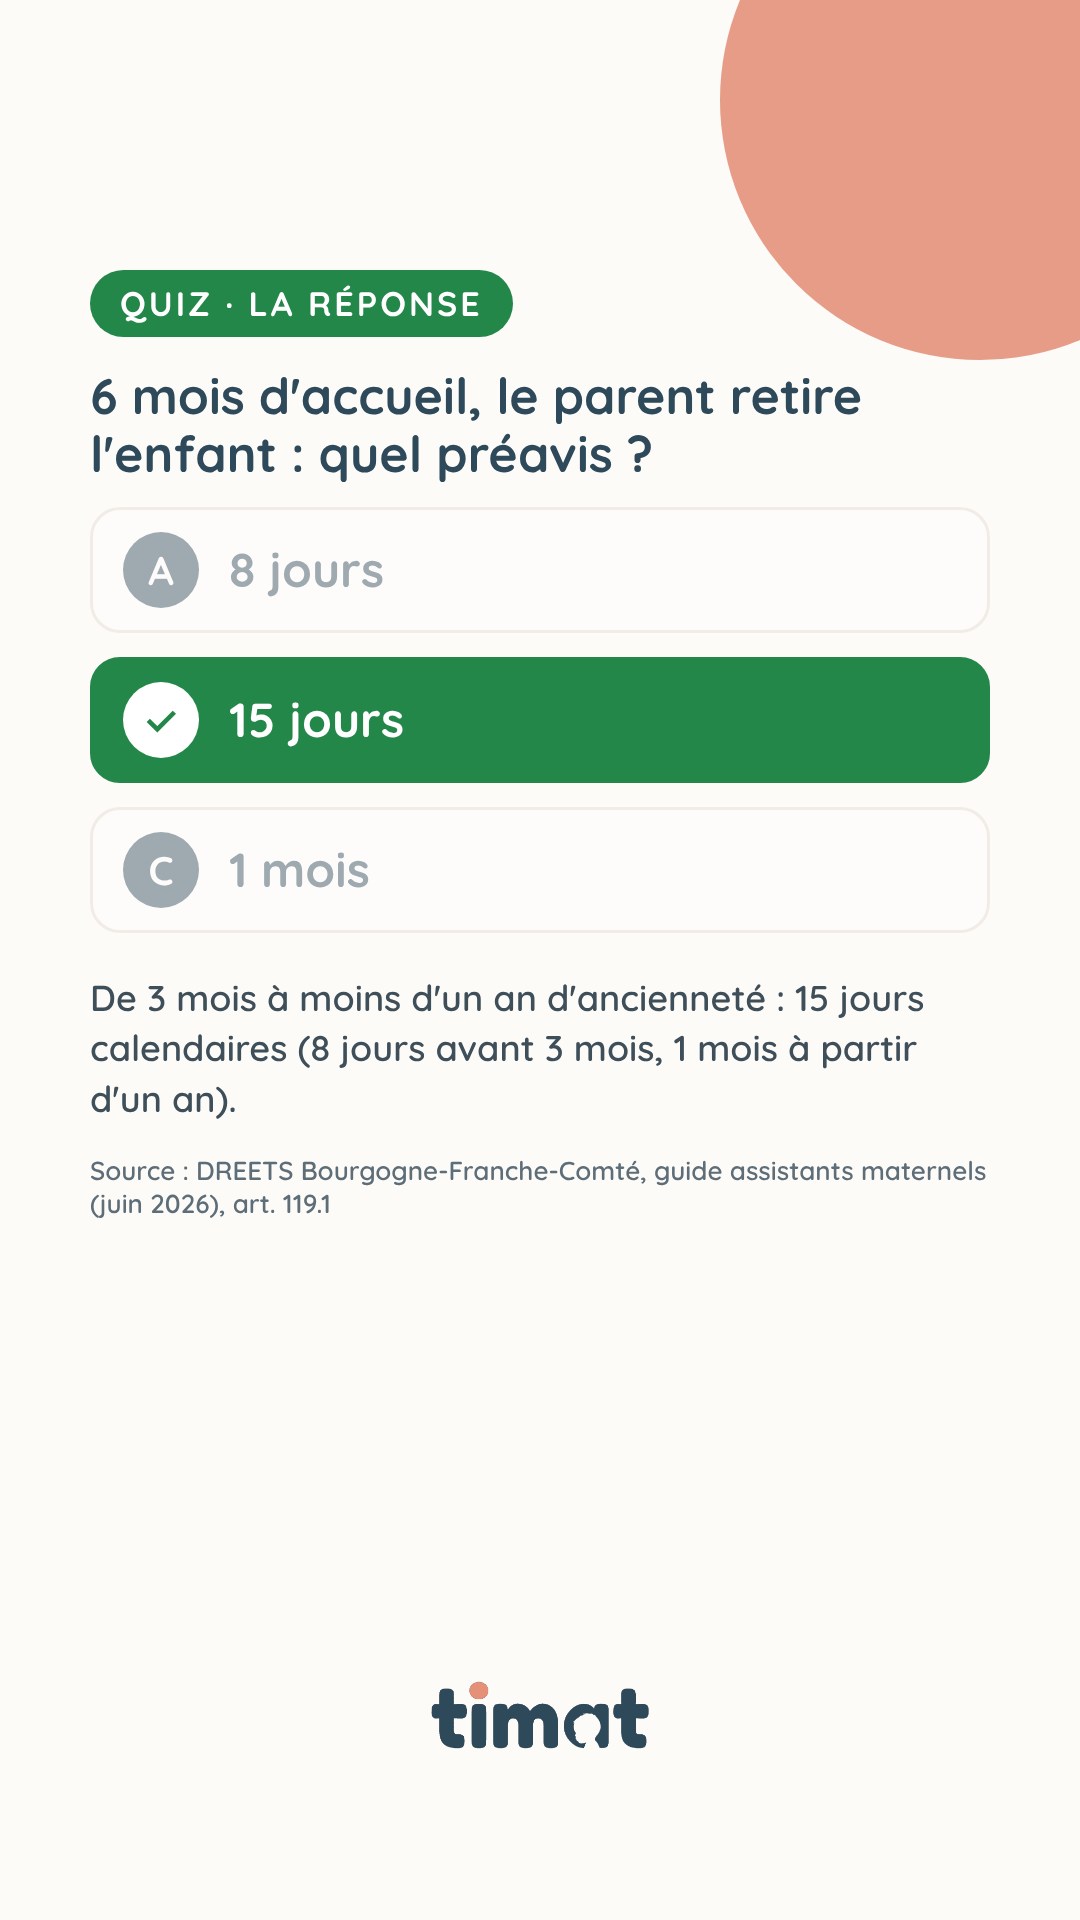
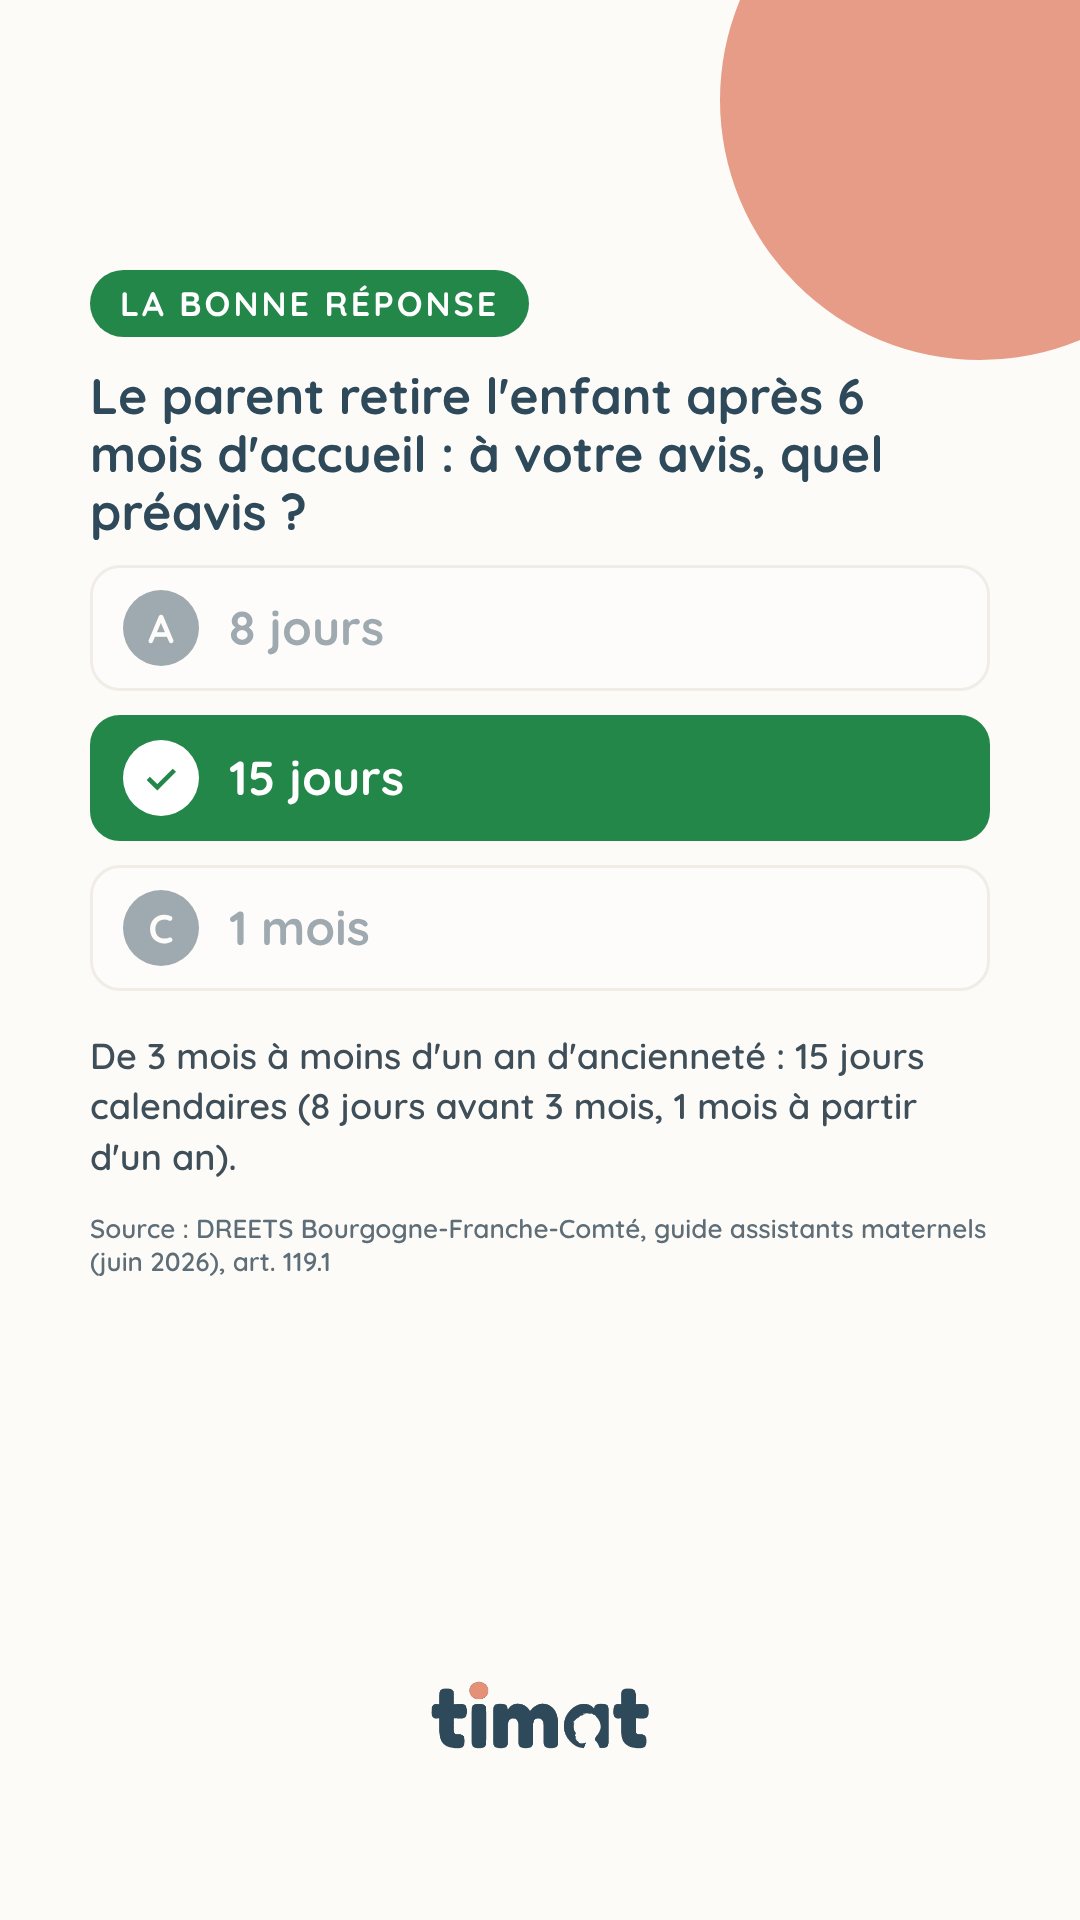
Sondages à bonne réponse et calendrier des stories repris le 30/10 (#297)
Sophie le 30/10 : « ne pas appeler ça un quiz, mais plutôt un sondage », et
poser la question autrement. Les images 27, 29, 40 et 42 portent désormais
« SONDAGE » et une question en « À votre avis… » ; les images 55 à 58,
« LA BONNE RÉPONSE ». En voyage les 28 et 29/10, elle n'a pas pu publier le
sondage du salaire minimum ni la story du 11 novembre : le calendrier du kit
les replace (31/10 et 1/11) au lieu de lui en faire faire deux le même jour,
jusqu'au 8/11. Un sondage ne se programme pas dans Meta Business Suite
(plusieurs guides, rien d'officiel) : ces stories se font à la main.

Passation : correction du titre publiée sur son accord, indexations des 28
et 29/10, nouveau calendrier.

Claude-Session: https://claude.ai/code/session_01JVfHnHqQqeEKwpYvot8sHP

Changed region(s): [[0.0611, 0.125, 0.9167, 0.6875]]

diff --git a/docs/reseaux-sociaux/kit-reseaux.html b/docs/reseaux-sociaux/kit-reseaux.html
@@ -537,11 +537,11 @@ Jamais</pre></div>
 
     <h3>Une story par jour, du 24 au 30 octobre</h3>
     <p>Mêmes gestes que ST1 et ST2 : l'image depuis vos photos, puis l'autocollant indiqué, posé dans l'espace vide. Les jours de publication programmée (26, 28 et 30 octobre à 20 h 30), la story est la publication elle-même : soit l'image de story faite exprès (43 et suivantes), programmée dans Meta Business Suite à 20 h 35, soit, sous la publication, l'avion en papier → <b>Ajouter à votre story</b>.</p>
-    <p class="note"><b>Le quiz sur le compte de Sophie</b>. Elle voulait le vrai quiz d'Instagram (réponse verte ou rouge tout de suite) : l'autocollant <b>Quiz</b> manque sur son compte, et l'astuce du Reel en brouillon n'a rien changé (28/10). On fait donc : l'image quiz (27, 29, 40, 42) avec l'autocollant <b>Sondage</b> et les réponses du tableau, puis <b>tout de suite après</b>, au même moment, l'image réponse (55 à 58, bonne réponse en vert). La personne vote, touche à droite, et voit la réponse aussitôt. Jamais la réponse le soir.</p>
+    <p class="note"><b>Les sondages à bonne réponse</b> (règles de Sophie, 27 au 30/10). La réponse se voit sur le moment, jamais le soir ; on dit « sondage », pas « quiz » ; la question se pose « À votre avis… ». L'autocollant Quiz manque sur son compte (astuce du Reel en brouillon essayée en vain le 28/10). Donc : l'image sondage (27, 29, 40, 42) avec l'autocollant <b>Sondage</b> et les réponses du tableau, puis <b>tout de suite après</b>, au même moment, l'image « La bonne réponse » (55 à 58). La personne vote, touche à droite, et voit la réponse en vert aussitôt.</p>
     <ol class="etapes">
-      <li><b>Story 1, le quiz</b> : « + » → <b>Story</b> → l'image quiz → icône des autocollants → <b>Sondage</b> → question « Votre réponse ? » → taper les réponses du tableau (« Ajouter une option » pour la troisième) → <b>OK</b> → placer l'autocollant sous « Votez juste en dessous » → <b>Votre story</b>.</li>
-      <li><b>Story 2, juste après</b> : « + » → <b>Story</b> → l'image réponse (55 à 58) → <b>Votre story</b>, sans autocollant.</li>
-      <li>Si un jour l'autocollant <b>Quiz</b> apparaît : le prendre à la place du Sondage, toucher la bonne réponse pour qu'elle devienne verte ; l'image réponse reste facultative.</li>
+      <li><b>Story 1, le sondage</b> : « + » → <b>Story</b> → l'image sondage → icône des autocollants → <b>Sondage</b> → question « À votre avis ? » → taper les réponses du tableau (« Ajouter une option » pour la troisième) → <b>OK</b> → placer l'autocollant sous « Votez juste en dessous » → <b>Votre story</b>.</li>
+      <li><b>Story 2, juste après</b> : « + » → <b>Story</b> → l'image « La bonne réponse » (55 à 58) → <b>Votre story</b>, sans autocollant.</li>
+      <li>Un sondage ne se programme pas dans Meta Business Suite (plusieurs guides le disent ; Meta ne publie rien là-dessus) ; pour l'autocollant Lien, les guides se contredisent. Ces stories se publient donc à la main dans Instagram ; seules les images sans autocollant (43 à 54) se programment.</li>
     </ol>
     <div class="grille">
       <figure><img src="visuels/25-story-boite-questions-1080x1920.png" alt="Fond : Une question sur votre contrat, votre salaire ou Pajemploi ? Posez-la ici"><figcaption>25 · questions</figcaption></figure>
@@ -564,33 +564,42 @@ Jamais</pre></div>
         <tr><td>Ven. 30/10</td><td>Image 29, puis juste après l'image 56 (réponse) ; l'image 23 avec le lien du groupe ; à 20 h 35, l'image 44 programmée</td><td><b>Sondage</b> : Une seule / Deux (bonne réponse : <b>Deux</b>, sur l'image 56) ; puis <b>Lien</b> vers le groupe</td><td>Pajemploi et Le groupe</td></tr>
       </tbody>
     </table></div>
-    <div class="colle"><div class="haut"><span class="nom">Lien du 29/10 (article jours fériés)</span><button class="copier" data-cible="st-feries">Copier</button></div>
+    <div class="colle"><div class="haut"><span class="nom">Lien de l'image 28 (article jours fériés), publiée le 31/10</span><button class="copier" data-cible="st-feries">Copier</button></div>
 <pre id="st-feries">https://www.timat.app/blog/jours-feries-assistante-maternelle</pre></div>
     <p class="note">Quiz du 27/10 : 4,20 € brut est le minimum conventionnel sans le titre professionnel (4,37 € avec), 3,46 € le plancher légal (0,281 × SMIC à 12,31 €), 3,64 € une simple mauvaise réponse. Les réponses à la boîte à questions deviennent des stories ou des publications du groupe, toujours avec leur source ; ne jamais montrer le nom de la personne.</p>
 
-    <h3>Une story par jour, du 31 octobre au 6 novembre</h3>
+    <h3>Calendrier repris le 30 octobre, jusqu'au 8 novembre</h3>
+    <p>Sophie était en voyage les 28 et 29/10 : le sondage du salaire minimum (27/10) et la story du 11 novembre (29/10) n'ont pas été publiés. Ils sont replacés ci-dessous. Les stories 43 à 47 sont programmées dans Meta Business Suite à 20 h 35 (fait par Sophie jusqu'au 6/11) : rien à faire ces jours-là. Le lien du groupe (image 23) est déjà à la une : on ne le republie pas.</p>
     <div class="grille">
-      <figure><img src="visuels/40-story-quiz-conges-1080x1920.png" alt="Fond de quiz : combien de jours de congés payés acquis par mois de travail ? Votez juste en dessous, la bonne réponse sur la story suivante"><figcaption>40 · quiz congés</figcaption></figure>
+      <figure><img src="visuels/29-story-quiz-pajemploi-1080x1920.png" alt="Sondage : à votre avis, pour deux enfants de la même famille, combien de déclarations Pajemploi chaque mois ?"><figcaption>29 · sondage Pajemploi</figcaption></figure>
+      <figure><img src="visuels/56-story-reponse-pajemploi-1080x1920.png" alt="La bonne réponse : deux déclarations, en vert"><figcaption>56 · réponse Pajemploi</figcaption></figure>
+      <figure><img src="visuels/28-story-11-novembre-1080x1920.png" alt="Mercredi 11 novembre, jour férié : payé normalement sous conditions, +10 % s'il est travaillé"><figcaption>28 · 11 novembre</figcaption></figure>
+      <figure><img src="visuels/27-story-quiz-minimum-1080x1920.png" alt="Sondage : à votre avis, quel est le salaire minimum d'une assistante maternelle depuis le 1er juin 2026 ?"><figcaption>27 · sondage salaire</figcaption></figure>
+      <figure><img src="visuels/55-story-reponse-minimum-1080x1920.png" alt="La bonne réponse : 4,20 euros brut de l'heure, en vert"><figcaption>55 · réponse salaire</figcaption></figure>
       <figure><img src="visuels/41-story-pajemploi-5-novembre-1080x1920.png" alt="Rappel Pajemploi : octobre se déclare jusqu'au 5 novembre"><figcaption>41 · Pajemploi</figcaption></figure>
-      <figure><img src="visuels/42-story-quiz-preavis-1080x1920.png" alt="Fond de quiz : 6 mois d'accueil, le parent retire l'enfant, quel préavis ? Votez juste en dessous, la bonne réponse sur la story suivante"><figcaption>42 · quiz préavis</figcaption></figure>
-      <figure><img src="visuels/57-story-reponse-conges-1080x1920.png" alt="Réponse du quiz : 2,5 jours par mois, en vert"><figcaption>57 · réponse congés</figcaption></figure>
-      <figure><img src="visuels/58-story-reponse-preavis-1080x1920.png" alt="Réponse du quiz : 15 jours de préavis, en vert"><figcaption>58 · réponse préavis</figcaption></figure>
+      <figure><img src="visuels/40-story-quiz-conges-1080x1920.png" alt="Sondage : à votre avis, combien de jours de congés payés gagne-t-on par mois de travail ?"><figcaption>40 · sondage congés</figcaption></figure>
+      <figure><img src="visuels/57-story-reponse-conges-1080x1920.png" alt="La bonne réponse : 2,5 jours par mois, en vert"><figcaption>57 · réponse congés</figcaption></figure>
+      <figure><img src="visuels/42-story-quiz-preavis-1080x1920.png" alt="Sondage : le parent retire l'enfant après 6 mois d'accueil, à votre avis, quel préavis ?"><figcaption>42 · sondage préavis</figcaption></figure>
+      <figure><img src="visuels/58-story-reponse-preavis-1080x1920.png" alt="La bonne réponse : 15 jours de préavis, en vert"><figcaption>58 · réponse préavis</figcaption></figure>
     </div>
     <div class="tableau"><table>
       <thead><tr><th>Jour</th><th>Story</th><th>Autocollant</th><th>À la une</th></tr></thead>
       <tbody>
-        <tr><td>Sam. 31/10</td><td>Image 40, puis juste après l'image 57 (réponse)</td><td><b>Sondage</b> : 2 jours / 2,5 jours / 3 jours (bonne réponse : <b>2,5 jours</b>, sur l'image 57)</td><td>Congés</td></tr>
-        <tr><td>Dim. 1/11</td><td>Image 26</td><td><b>Sondage</b> : « La fin de contrat, ça vous stresse ? » Oui / Non</td><td>Vos questions</td></tr>
-        <tr><td>Lun. 2/11</td><td>Image 45 programmée à 20 h 35 (ou la publication repartagée après 20 h 30)</td><td>aucun</td><td>Indemnités</td></tr>
+        <tr><td>Ven. 30/10</td><td>Image 29, puis tout de suite l'image 56 ; à 20 h 35, l'image 44 (programmée)</td><td><b>Sondage</b> « À votre avis ? » : Une seule / Deux (bonne réponse : <b>Deux</b>, sur l'image 56)</td><td>Pajemploi</td></tr>
+        <tr><td>Sam. 31/10</td><td>Image 28 (le 11 novembre)</td><td><b>Lien</b> vers l'article des jours fériés, texte « Lire l'article »</td><td>Salaire</td></tr>
+        <tr><td>Dim. 1/11</td><td>Image 27, puis tout de suite l'image 55</td><td><b>Sondage</b> « À votre avis ? » : 3,46 € / 3,64 € / 4,20 € (bonne réponse : <b>4,20 €</b>, sur l'image 55)</td><td>Salaire</td></tr>
+        <tr><td>Lun. 2/11</td><td>Image 45, programmée à 20 h 35</td><td>aucun</td><td>Indemnités</td></tr>
         <tr><td>Mar. 3/11</td><td>Image 41</td><td><b>Lien</b> vers le simulateur Pajemploi de TiMat, texte « Le simulateur »</td><td>Pajemploi</td></tr>
-        <tr><td>Mer. 4/11</td><td>Image 46 programmée à 20 h 35 (ou la publication repartagée après 20 h 30)</td><td>aucun</td><td>L'appli</td></tr>
-        <tr><td>Jeu. 5/11</td><td>Image 42, puis juste après l'image 58 (réponse)</td><td><b>Sondage</b> : 8 jours / 15 jours / 1 mois (bonne réponse : <b>15 jours</b>, sur l'image 58 ; le détail vendredi avec la publication du préavis et l'image 47)</td><td>Vos questions</td></tr>
-        <tr><td>Ven. 6/11</td><td>Image 47 programmée à 20 h 35 (ou la publication 11, préavis, repartagée après 20 h 30) ; puis l'image 23 avec le lien du groupe</td><td>aucun, puis <b>Lien</b> vers le groupe</td><td>Indemnités, puis Le groupe</td></tr>
+        <tr><td>Mer. 4/11</td><td>Image 40, puis tout de suite l'image 57 ; à 20 h 35, l'image 46 (programmée)</td><td><b>Sondage</b> « À votre avis ? » : 2 jours / 2,5 jours / 3 jours (bonne réponse : <b>2,5 jours</b>, sur l'image 57)</td><td>Congés</td></tr>
+        <tr><td>Jeu. 5/11</td><td>Image 42, puis tout de suite l'image 58</td><td><b>Sondage</b> « À votre avis ? » : 8 jours / 15 jours / 1 mois (bonne réponse : <b>15 jours</b>, sur l'image 58 ; le détail vendredi avec la publication du préavis)</td><td>Vos questions</td></tr>
+        <tr><td>Ven. 6/11</td><td>Image 47, programmée à 20 h 35</td><td>aucun</td><td>Indemnités</td></tr>
+        <tr><td>Sam. 7/11</td><td>Image 26</td><td><b>Sondage</b> : « La fin de contrat, ça vous stresse ? » Oui / Non</td><td>Vos questions</td></tr>
+        <tr><td>Dim. 8/11</td><td>rien</td><td>—</td><td>—</td></tr>
       </tbody>
     </table></div>
     <div class="colle"><div class="haut"><span class="nom">Lien du 3/11 (simulateur Pajemploi)</span><button class="copier" data-cible="st-simu">Copier</button></div>
 <pre id="st-simu">https://www.timat.app/simulateur-declaration-pajemploi-assistante-maternelle.html</pre></div>
-    <p class="note">Sources des quiz : 2,5 jours ouvrables par mois (DREETS Auvergne-Rhône-Alpes, comme la publication 6) ; 15 jours calendaires de préavis de 3 mois à moins d'un an d'ancienneté (DREETS Bourgogne-Franche-Comté, juin 2026, art. 119.1). Rappel Pajemploi : la déclaration se fait du 25 du mois au 5 du mois suivant (dépliant Pajemploi de la CAF), une par enfant depuis janvier 2026 (urssaf.fr).</p>
+    <p class="note">Sources des sondages : 2,5 jours ouvrables par mois (DREETS Auvergne-Rhône-Alpes, comme la publication 6) ; 15 jours calendaires de préavis de 3 mois à moins d'un an d'ancienneté (DREETS Bourgogne-Franche-Comté, juin 2026, art. 119.1). Rappel Pajemploi : la déclaration se fait du 25 du mois au 5 du mois suivant (dépliant Pajemploi de la CAF), une par enfant depuis janvier 2026 (urssaf.fr).</p>
 
     <h3>Les sondages des semaines suivantes</h3>
     <p>Une story sondage par semaine, suivie de la story ST2 (republier l'image 23 avec le même lien). Le fond 22 peut resservir : la question écrite dans l'autocollant suffit. Ce sont des questions d'expérience, pas de réglementation : aucune ne demande de source.</p>

diff --git a/index.html b/index.html
@@ -182,7 +182,7 @@
         <p>Le salaire minimum, la mensualisation, les congés, la déclaration Pajemploi : les réponses aux questions qui reviennent.</p>
 
         <h2>Ressources pour les assmats</h2>
-        <p>88 guides pratiques gratuits, chacun adossé à ses sources officielles, et des simulateurs sans inscription.</p>
+        <p>90 guides pratiques gratuits, chacun adossé à ses sources officielles, et des simulateurs sans inscription.</p>
 
         <nav aria-label="Ressources">
           <ul>

diff --git a/data/nombre-guides.js b/data/nombre-guides.js
@@ -1,3 +1,3 @@
 // Ecrit par scripts/generate-blog.mjs a chaque build. Ne pas modifier a la main.
-export const NOMBRE_GUIDES = 88;
+export const NOMBRE_GUIDES = 90;
 export default NOMBRE_GUIDES;

diff --git a/docs/passation-2026-10-13.md b/docs/passation-2026-10-13.md
@@ -757,6 +757,30 @@ l'écran Fin de contrat.
       « anciennement », 1/120e seulement pour dire que c'est périmé,
       SMIC de l'abattement fiscal par période (11,88 / 12,02 / 12,31 €),
       indemnité d'entretien (0,435 €/h, plancher 2,65 €) cohérente.
+- **30/10, réponses de Sophie** :
+  - « Je confirme publier la correction du titre » : `salaire-assistante-
+    maternelle-net-brut` **publié** (deux liens relatifs convertis en
+    adresses complètes, exigées par la validation Sanity).
+  - Indexation : liste du 28/10 déjà indexée sauf le n° 10
+    (`contrat-assistante-maternelle-cote-parent-employeur`) ; liste du 29/10 :
+    demandées les n° 2, 4, 5, 6 (les autres étaient déjà sur Google). Une
+    adresse déjà indexée n'a pas à être redemandée.
+  - Voyage les 28 et 29/10 : stories du 27/10 (sondage salaire minimum) et du
+    29/10 (11 novembre, image 28) non faites ; la 43 (28/10) était
+    programmée. Le lien du groupe (image 23) est déjà à la une.
+  - « Ne pas appeler ça un quiz, mais un sondage », et poser la question
+    autrement : images 27, 29, 40, 42 étiquetées « SONDAGE », questions en
+    « À votre avis… » ; 55 à 58 étiquetées « LA BONNE RÉPONSE ». Autocollant
+    Sondage, question « À votre avis ? ».
+  - **Nouveau calendrier** (kit, « Calendrier repris le 30 octobre ») :
+    30/10 sondage Pajemploi (29 + 56) ; 31/10 image 28 + lien ; 1/11 sondage
+    salaire (27 + 55) ; 2/11 image 45 programmée ; 3/11 image 41 + lien
+    simulateur ; 4/11 sondage congés (40 + 57) + image 46 programmée ; 5/11
+    sondage préavis (42 + 58) ; 6/11 image 47 programmée ; 7/11 image 26
+    (sondage fin de contrat) ; 8/11 rien. Rappel quotidien réécrit.
+  - Un sondage ne se programme pas dans Meta Business Suite (plusieurs
+    guides, rien d'officiel) ; pour le lien, les guides se contredisent :
+    les deux se font à la main dans Instagram.
 - **À vérifier** : le titre « Assistant maternel / Garde d'enfants »
   (RNCP 37795) n'est plus enregistré depuis le 19/07/2026, remplacé par
   « Assistant maternel - Assistant parental » (RNCP 42319, France
@@ -814,8 +838,6 @@ l'écran Fin de contrat.
   (Sophie préfère attendre pour la MAM).
 
 **Claude, à la prochaine session**
-- Publier la correction du titre dans `salaire-assistante-maternelle-net-brut`
-  dès l'accord écrit de Sophie.
 - Publier la correction de `projet-accueil-assistante-maternelle` dès
   l'accord écrit de Sophie.
 - La file de publication se vide après le 8 novembre : écrire d'autres

diff --git a/CLAUDE.md b/CLAUDE.md
@@ -36,10 +36,12 @@ et l'historique git font le lien. Donc :
   jour ») ; les stories à programmer dans Meta Business Suite lui sont
   envoyées 5 jours avant la fin de la série programmée en cours. Toujours
   des étapes très explicites, et les images À LA FIN du message, jamais au
-  milieu. Quiz (règle du 27/10) : réponse sur le moment, jamais le soir.
-  L'autocollant « Quiz » manque sur son compte (astuce du Reel essayée en
-  vain le 28/10) : image quiz + autocollant Sondage, puis tout de suite
-  après l'image réponse (bonne réponse en vert).
+  milieu. Sondages à bonne réponse (règles du 27 au 30/10) : dire
+  « sondage », jamais « quiz » ; question « À votre avis… » ; réponse sur le
+  moment, jamais le soir : image sondage + autocollant Sondage, puis tout de
+  suite l'image « La bonne réponse » (en vert). L'autocollant Quiz manque sur
+  son compte. Un sondage ne se programme pas dans Meta Business Suite : à la
+  main dans Instagram.
 - Vocabulaire : « période de familiarisation » (référentiel national de la
   qualité d'accueil, 2025, employé par la PMI) ; au contrat, le terme reste
   « période d'adaptation » (convention collective, art. 94).
